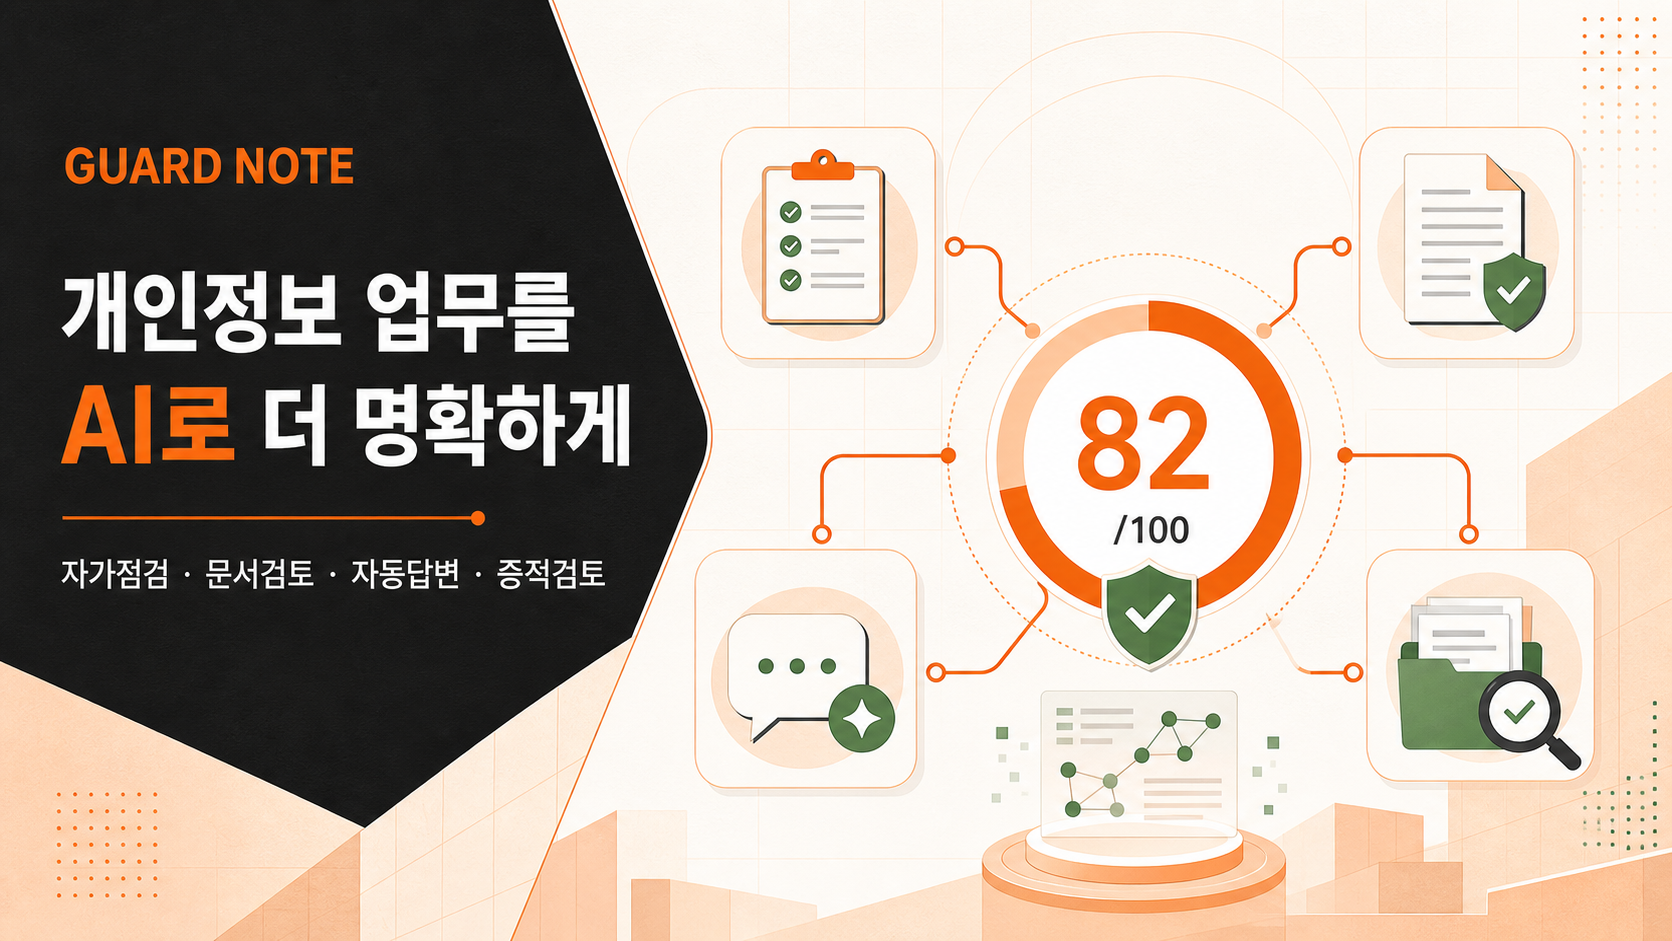
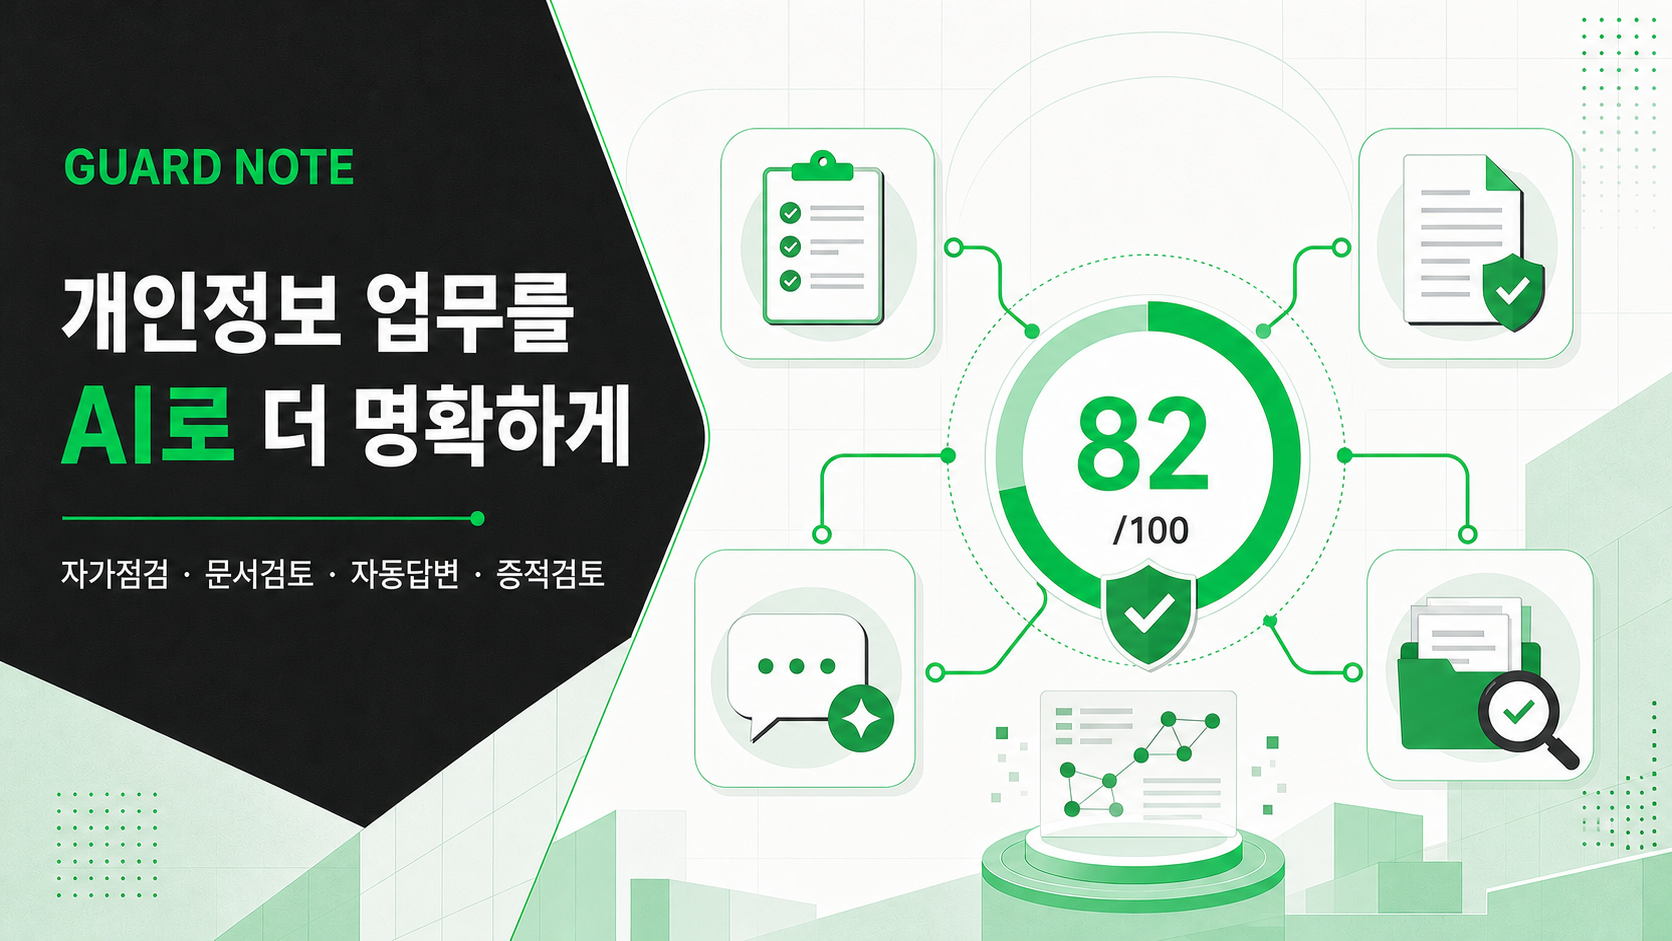
Unify GuardNote with Naver green

diff --git a/src/index.css b/src/index.css
@@ -2,26 +2,26 @@
 
 :root {
   font-family: "Noto Sans KR", sans-serif;
-  color: #1c1b1a;
-  background: #f7f5f1;
+  color: #191919;
+  background: #f7f8f7;
   font-synthesis: none;
-  --ink: #1c1b1a;
-  --muted: #76736d;
-  --line: #e7e3dc;
+  --ink: #191919;
+  --muted: #707572;
+  --line: #e2e7e4;
   --paper: #fff;
-  --cream: #f7f5f1;
-  --peach: #fff1e7;
-  --orange: #eb6917;
-  --orange-dark: #c94f06;
-  --green: #23845a;
-  --green-soft: #e8f5ef;
-  --red: #bc3e3e;
-  --red-soft: #faeaea;
-  --yellow: #a56b0a;
-  --yellow-soft: #fff4d9;
-  --purple: #6654b8;
-  --purple-soft: #eeeafd;
-  --shadow: 0 12px 34px rgba(35, 29, 24, .06);
+  --cream: #f7f8f7;
+  --peach: #e9fbf1;
+  --orange: #03c75a;
+  --orange-dark: #00a64b;
+  --green: #03c75a;
+  --green-soft: #e9fbf1;
+  --red: #00a64b;
+  --red-soft: #edf8f2;
+  --yellow: #03c75a;
+  --yellow-soft: #e9fbf1;
+  --purple: #00a64b;
+  --purple-soft: #edf8f2;
+  --shadow: 0 12px 34px rgba(0, 0, 0, .06);
 }
 
 * { box-sizing: border-box; }
@@ -30,10 +30,10 @@ body { margin: 0; min-width: 320px; min-height: 100vh; background: var(--cream);
 button, input, textarea, select { font: inherit; }
 button { color: inherit; }
 button, a { -webkit-tap-highlight-color: transparent; }
-button:focus-visible, input:focus-visible, textarea:focus-visible, select:focus-visible { outline: 3px solid rgba(235,105,23,.22); outline-offset: 2px; }
+button:focus-visible, input:focus-visible, textarea:focus-visible, select:focus-visible { outline: 3px solid rgba(3,199,90,.24); outline-offset: 2px; }
 
 .app-shell { min-height: 100vh; }
-.sidebar { position: fixed; inset: 0 auto 0 0; width: 264px; display: flex; flex-direction: column; padding: 26px 19px 18px; background: #201f1d; color: #fff; z-index: 40; }
+.sidebar { position: fixed; inset: 0 auto 0 0; width: 264px; display: flex; flex-direction: column; padding: 26px 19px 18px; background: #191919; color: #fff; z-index: 40; }
 .sidebar-head { display: flex; justify-content: space-between; align-items: center; padding: 0 7px 24px; }
 .brand { display: inline-flex; align-items: center; gap: 11px; }
 .brand-mark { position: relative; width: 31px; height: 31px; border: 2px solid currentColor; display: inline-block; transform: rotate(-8deg); overflow: hidden; }
@@ -58,20 +58,20 @@ button:focus-visible, input:focus-visible, textarea:focus-visible, select:focus-
 .main-nav button:hover { color: #fff; background: #2e2c29; }
 .main-nav button.is-active { color: #fff; background: #34312d; box-shadow: inset 3px 0 var(--orange); }
 .main-nav button span { font-size: 13px; font-weight: 600; }
-.main-nav button em { min-width: 24px; padding: 3px 6px; color: #f9b58a; border: 1px solid #61402c; border-radius: 999px; font: 700 9px "DM Sans"; text-align: center; font-style: normal; }
+.main-nav button em { min-width: 24px; padding: 3px 6px; color: #6ee7a5; border: 1px solid #14663a; border-radius: 999px; font: 700 9px "DM Sans"; text-align: center; font-style: normal; }
 .reference-card { margin-top: auto; display: grid; grid-template-columns: 24px 1fr 17px; gap: 8px; align-items: start; padding: 13px; border: 1px solid #3b3935; border-radius: 9px; background: #292825; color: #e7e3dd; }
 .reference-card > svg:first-child { color: var(--orange); }
-.reference-card > svg:last-child { color: #64b38e; }
+.reference-card > svg:last-child { color: var(--orange); }
 .reference-card b { display: block; font-size: 11px; }
 .reference-card p { margin: 3px 0 0; color: #918e87; font-size: 9px; line-height: 1.5; }
 .sidebar-foot { display: grid; grid-template-columns: 34px 1fr auto; gap: 10px; align-items: center; padding: 17px 8px 0; margin-top: 13px; border-top: 1px solid #363430; }
-.avatar { display: grid; place-items: center; width: 34px; height: 34px; border-radius: 50%; color: #31231b; background: #f4c6a9; font-weight: 800; }
+.avatar { display: grid; place-items: center; width: 34px; height: 34px; border-radius: 50%; color: #07572d; background: #c9f5dc; font-weight: 800; }
 .sidebar-foot div { display: grid; gap: 1px; }
 .sidebar-foot b { font-size: 12px; }
 .sidebar-foot small { color: #85817b; font-size: 9px; }
 
 .main-shell { min-height: 100vh; margin-left: 264px; }
-.topbar { position: sticky; top: 0; z-index: 30; height: 78px; display: flex; align-items: center; gap: 16px; padding: 0 32px; border-bottom: 1px solid rgba(220,215,207,.8); background: rgba(247,245,241,.9); backdrop-filter: blur(16px); }
+.topbar { position: sticky; top: 0; z-index: 30; height: 78px; display: flex; align-items: center; gap: 16px; padding: 0 32px; border-bottom: 1px solid rgba(226,231,228,.9); background: rgba(247,248,247,.92); backdrop-filter: blur(16px); }
 .topbar-title { min-width: 280px; }
 .topbar h1 { margin: 0; font-size: 18px; letter-spacing: -.04em; }
 .topbar-title p { margin: 3px 0 0; color: var(--muted); font-size: 10px; }
@@ -104,8 +104,8 @@ button:focus-visible, input:focus-visible, textarea:focus-visible, select:focus-
 .section-head h3 { margin: 4px 0 0; font-size: 17px; letter-spacing: -.04em; }
 .section-head > button { display: flex; align-items: center; gap: 5px; padding: 5px; border: 0; background: transparent; color: var(--muted); font-size: 10px; cursor: pointer; }
 
-.hero-panel { position: relative; overflow: hidden; display: grid; grid-template-columns: 1.25fr .75fr; min-height: 315px; padding: 42px 46px; border-radius: 17px; background: linear-gradient(125deg, #ead4c2 0%, #f8e9dd 46%, #fff7f1 100%); }
-.hero-panel::before { content: ""; position: absolute; width: 360px; height: 360px; border: 1px solid rgba(235,105,23,.18); border-radius: 50%; right: -85px; top: -190px; box-shadow: 0 0 0 60px rgba(255,255,255,.18), 0 0 0 120px rgba(255,255,255,.15); }
+.hero-panel { position: relative; overflow: hidden; display: grid; grid-template-columns: 1.25fr .75fr; min-height: 315px; padding: 42px 46px; border-radius: 17px; background: linear-gradient(125deg, #dff8e9 0%, #effcf4 48%, #f9fffb 100%); }
+.hero-panel::before { content: ""; position: absolute; width: 360px; height: 360px; border: 1px solid rgba(3,199,90,.2); border-radius: 50%; right: -85px; top: -190px; box-shadow: 0 0 0 60px rgba(255,255,255,.22), 0 0 0 120px rgba(255,255,255,.18); }
 .hero-panel > div { position: relative; z-index: 1; }
 .hero-panel h2, .audit-overview h2, .vendor-summary h2, .pbd-hero h2, .smart-hero h2, .history-intro h2 { margin: 17px 0 14px; font-size: clamp(28px, 3.3vw, 47px); line-height: 1.24; letter-spacing: -.065em; }
 .hero-panel h2 em, .smart-hero h2 em { color: var(--orange); font-style: normal; }
@@ -113,7 +113,7 @@ button:focus-visible, input:focus-visible, textarea:focus-visible, select:focus-
 .hero-actions { display: flex; gap: 8px; margin-top: 24px; }
 .hero-score { display: flex; align-items: center; justify-content: center; gap: 26px; }
 .score-orbit { position: relative; display: grid; place-items: center; width: 170px; height: 170px; border-radius: 50%; background: conic-gradient(var(--orange) 0 82%, rgba(255,255,255,.65) 82%); }
-.score-orbit::after { content: ""; position: absolute; inset: 10px; border-radius: 50%; background: #f8eee7; }
+.score-orbit::after { content: ""; position: absolute; inset: 10px; border-radius: 50%; background: #effcf4; }
 .score-orbit strong { position: relative; z-index: 1; font: 700 52px "DM Sans"; letter-spacing: -.06em; }
 .score-orbit small { font-size: 15px; color: #83766e; }
 .score-orbit i { position: absolute; z-index: 2; width: 8px; height: 8px; border-radius: 50%; background: #fff; }
@@ -144,7 +144,7 @@ button:focus-visible, input:focus-visible, textarea:focus-visible, select:focus-
 .action-row p { margin: 0; color: var(--muted); font-size: 9px; }
 .launcher-grid { display: grid; grid-template-columns: 1fr 1fr; gap: 8px; margin-top: 17px; }
 .launcher-grid button { min-height: 112px; display: flex; flex-direction: column; align-items: flex-start; gap: 7px; padding: 14px; border: 1px solid var(--line); border-radius: 9px; background: #faf9f7; cursor: pointer; text-align: left; }
-.launcher-grid button:hover { border-color: #efab80; background: var(--peach); }
+.launcher-grid button:hover { border-color: #67dfa0; background: var(--peach); }
 .launcher-grid svg { color: var(--orange); }
 .launcher-grid b { font-size: 11px; }
 .launcher-grid small { color: var(--muted); font-size: 8px; line-height: 1.5; }
@@ -154,12 +154,12 @@ button:focus-visible, input:focus-visible, textarea:focus-visible, select:focus-
 .table-header, .history-table .table-row { min-width: 850px; display: grid; grid-template-columns: .75fr 1.65fr 1.15fr .9fr .8fr .9fr 24px; gap: 14px; align-items: center; padding: 12px 14px; }
 .table-header { border-radius: 7px; background: #f3f1ed; color: #858079; font-size: 8px; font-weight: 700; }
 .history-table .table-row { width: 100%; border: 0; border-bottom: 1px solid #efede8; background: #fff; text-align: left; cursor: pointer; font-size: 10px; }
-.history-table .table-row:hover { background: #fffaf6; }
+.history-table .table-row:hover { background: #f3fcf7; }
 .history-table .table-row b { font-size: 10px; }
 .history-table .table-row > span:nth-child(4) { display: grid; grid-template-columns: 1fr 30px; gap: 7px; align-items: center; }
 .history-table.compact .table-header, .history-table.compact .table-row { grid-template-columns: .8fr 1.6fr 1.2fr .8fr .8fr; min-width: 700px; }
 
-.audit-overview { display: grid; grid-template-columns: 1.2fr .65fr .55fr; align-items: center; gap: 30px; padding: 34px 38px; background: linear-gradient(110deg,#fff 55%,#fff7f1); }
+.audit-overview { display: grid; grid-template-columns: 1.2fr .65fr .55fr; align-items: center; gap: 30px; padding: 34px 38px; background: linear-gradient(110deg,#fff 55%,#effcf4); }
 .audit-overview h2 { margin: 13px 0 9px; font-size: 29px; }
 .audit-progress { display: grid; gap: 9px; padding: 0 28px; border-left: 1px solid var(--line); border-right: 1px solid var(--line); }
 .audit-progress strong { font: 700 35px "DM Sans"; letter-spacing: -.05em; }
@@ -176,10 +176,10 @@ button:focus-visible, input:focus-visible, textarea:focus-visible, select:focus-
 .question-toolbar input { width: 100%; border: 0; outline: 0; font-size: 9px; }
 .question-toolbar > div { display: flex; gap: 4px; overflow: auto; }
 .question-toolbar > div button, .history-toolbar > div button { padding: 7px 10px; border: 1px solid transparent; border-radius: 7px; background: transparent; color: var(--muted); font-size: 9px; cursor: pointer; white-space: nowrap; }
-.question-toolbar > div button.is-active, .history-toolbar > div button.is-active { color: var(--orange-dark); border-color: #ffd8bf; background: var(--peach); font-weight: 700; }
+.question-toolbar > div button.is-active, .history-toolbar > div button.is-active { color: var(--orange-dark); border-color: #8ae8b4; background: var(--peach); font-weight: 700; }
 .question-list { padding: 0 18px 18px; }
 .question-card { position: relative; display: grid; grid-template-columns: 36px 1fr; gap: 13px; padding: 19px 14px; border-bottom: 1px solid var(--line); cursor: pointer; }
-.question-card.is-active { margin: 0 -18px; padding-left: 32px; padding-right: 32px; background: #fffaf6; box-shadow: inset 3px 0 var(--orange); }
+.question-card.is-active { margin: 0 -18px; padding-left: 32px; padding-right: 32px; background: #f3fcf7; box-shadow: inset 3px 0 var(--orange); }
 .question-index { display: grid; place-items: center; width: 33px; height: 33px; border-radius: 8px; background: #f4f2ee; color: #aaa49c; font: 700 9px "DM Sans"; }
 .question-card.is-active .question-index { color: var(--orange-dark); background: var(--peach); }
 .question-card small { color: var(--orange); font-size: 8px; font-weight: 700; }
@@ -187,7 +187,7 @@ button:focus-visible, input:focus-visible, textarea:focus-visible, select:focus-
 .question-card p { margin: 0; color: #9a958e; font-size: 8px; }
 .answer-buttons { display: flex; flex-wrap: wrap; gap: 5px; margin-top: 12px; }
 .answer-buttons button { display: inline-flex; align-items: center; gap: 4px; min-width: 60px; padding: 6px 10px; border: 1px solid var(--line); border-radius: 6px; background: #fff; color: #77726b; font-size: 9px; cursor: pointer; }
-.answer-buttons button.is-selected { color: var(--orange-dark); border-color: #ef9a64; background: var(--peach); font-weight: 700; }
+.answer-buttons button.is-selected { color: var(--orange-dark); border-color: #57d993; background: var(--peach); font-weight: 700; }
 .answer-state { position: absolute; top: 18px; right: 10px; display: grid; place-items: center; width: 27px; height: 27px; border-radius: 50%; color: var(--green); background: var(--green-soft); }
 .answer-state.is-bad { color: var(--red); background: var(--red-soft); }
 .guidance-panel { position: sticky; top: 94px; padding: 23px; }
@@ -195,7 +195,7 @@ button:focus-visible, input:focus-visible, textarea:focus-visible, select:focus-
 .guidance-law { display: flex; gap: 10px; margin-top: 20px; padding: 13px; border-radius: 8px; background: var(--peach); color: var(--orange-dark); }
 .guidance-law div { display: grid; gap: 2px; }
 .guidance-law b { font-size: 9px; }
-.guidance-law p { margin: 0; color: #8e5b3d; font-size: 9px; }
+.guidance-law p { margin: 0; color: #246b46; font-size: 9px; }
 .guidance-copy { margin-top: 17px; }
 .guidance-copy b { font-size: 10px; }
 .guidance-copy p { margin: 6px 0 0; color: var(--muted); font-size: 9px; line-height: 1.7; }
@@ -223,10 +223,10 @@ button:focus-visible, input:focus-visible, textarea:focus-visible, select:focus-
 .scope-box span { display: flex; align-items: center; gap: 5px; color: #66615b; font-size: 9px; }
 .scope-box svg { color: var(--green); }
 .modal-actions { display: flex; justify-content: flex-end; gap: 7px; margin-top: 22px; }
-.ai-progress, .inline-processing { display: flex; align-items: center; gap: 13px; margin-top: 19px; padding: 17px; border: 1px solid #f6d4bd; border-radius: 9px; background: #fff8f3; }
+.ai-progress, .inline-processing { display: flex; align-items: center; gap: 13px; margin-top: 19px; padding: 17px; border: 1px solid #bcefd2; border-radius: 9px; background: #f3fcf7; }
 .ai-progress.compact { padding: 12px; }
 .ai-spinner { display: grid; place-items: center; flex: 0 0 auto; width: 43px; height: 43px; border-radius: 50%; color: var(--orange); background: #fff; animation: pulse 1.4s ease-in-out infinite; }
-@keyframes pulse { 50% { transform: scale(1.06); box-shadow: 0 0 0 8px rgba(235,105,23,.08); } }
+@keyframes pulse { 50% { transform: scale(1.06); box-shadow: 0 0 0 8px rgba(3,199,90,.1); } }
 .ai-progress > div, .inline-processing > div { flex: 1; display: grid; gap: 7px; }
 .ai-progress b, .inline-processing b { font-size: 10px; }
 .ai-progress p { margin: 0; color: var(--muted); font-size: 8px; }
@@ -256,7 +256,7 @@ button:focus-visible, input:focus-visible, textarea:focus-visible, select:focus-
 .vendor-table-head, .vendor-row { display: grid; grid-template-columns: 1.6fr 1fr .55fr .55fr .75fr; align-items: center; gap: 10px; padding: 11px 17px; }
 .vendor-table-head { color: #928d86; background: #f3f1ed; font-size: 8px; font-weight: 700; }
 .vendor-row { width: 100%; border: 0; border-bottom: 1px solid #efede8; background: #fff; text-align: left; cursor: pointer; }
-.vendor-row:hover, .vendor-row.is-active { background: #fff9f4; }
+.vendor-row:hover, .vendor-row.is-active { background: #f3fcf7; }
 .vendor-row.is-active { box-shadow: inset 3px 0 var(--orange); }
 .vendor-row > span:first-child { display: flex; align-items: center; gap: 9px; }
 .vendor-row > span:first-child i { display: grid; place-items: center; width: 30px; height: 30px; border-radius: 7px; color: var(--orange-dark); background: var(--peach); font-style: normal; font-weight: 800; }
@@ -288,7 +288,7 @@ button:focus-visible, input:focus-visible, textarea:focus-visible, select:focus-
 .training-box button { min-height: 29px; padding: 5px 8px; font-size: 8px; }
 .evidence-work { margin-top: 16px; padding-top: 16px; border-top: 1px solid var(--line); }
 .evidence-work .section-head h3 { font-size: 14px; }
-.evidence-question { margin: 14px 0 0; padding: 11px; border-left: 3px solid var(--orange); background: #fff8f3; font-size: 9px; line-height: 1.6; }
+.evidence-question { margin: 14px 0 0; padding: 11px; border-left: 3px solid var(--orange); background: #f3fcf7; font-size: 9px; line-height: 1.6; }
 .evidence-upload { display: flex; align-items: center; gap: 9px; margin-top: 12px; padding: 11px; border: 1px dashed #d6d0c7; border-radius: 8px; cursor: pointer; color: var(--orange); }
 .evidence-upload > div { display: grid; gap: 2px; color: var(--ink); }
 .evidence-upload b { font-size: 9px; }
@@ -303,7 +303,7 @@ button:focus-visible, input:focus-visible, textarea:focus-visible, select:focus-
 .result-block b { font-size: 9px; }
 .result-block p { margin: 5px 0 0; color: #5e5a54; font-size: 9px; line-height: 1.75; }
 .result-block p strong { color: var(--red); }
-.result-block.suggestion { border-color: #f4d0b8; background: #fff8f3; }
+.result-block.suggestion { border-color: #bcefd2; background: #f3fcf7; }
 .field { display: grid; gap: 6px; margin-top: 13px; }
 .field span { font-size: 9px; font-weight: 700; }
 .field input, .field select { width: 100%; padding: 10px 11px; border: 1px solid var(--line); border-radius: 7px; background: #fff; font-size: 10px; outline: 0; }
@@ -317,7 +317,7 @@ button:focus-visible, input:focus-visible, textarea:focus-visible, select:focus-
 .stage-line i { width: 23px; height: 1px; background: #d9d5ce; }
 .project-cards { display: grid; grid-template-columns: repeat(3,1fr); gap: 12px; }
 .project-card { padding: 18px; border: 1px solid var(--line); border-radius: 11px; background: #fff; box-shadow: var(--shadow); text-align: left; cursor: pointer; }
-.project-card.is-active { border-color: #efa170; box-shadow: inset 0 0 0 1px #efa170, var(--shadow); }
+.project-card.is-active { border-color: #4bd68b; box-shadow: inset 0 0 0 1px #4bd68b, var(--shadow); }
 .project-card > span { display: flex; justify-content: space-between; align-items: center; }
 .project-card > span small { color: var(--muted); font-size: 8px; }
 .project-card h3 { margin: 16px 0 4px; font-size: 16px; }
@@ -336,13 +336,13 @@ button:focus-visible, input:focus-visible, textarea:focus-visible, select:focus-
 .pbd-checks small { color: var(--muted); font-size: 8px; }
 
 .smart-hero { padding-top: 8px; }
-.smart-trust { display: grid; grid-template-columns: 32px 1fr; gap: 3px 9px; padding: 15px 17px; border: 1px solid #efd6c5; border-radius: 10px; background: #fff8f3; color: var(--orange-dark); }
+.smart-trust { display: grid; grid-template-columns: 32px 1fr; gap: 3px 9px; padding: 15px 17px; border: 1px solid #bcefd2; border-radius: 10px; background: #f3fcf7; color: var(--orange-dark); }
 .smart-trust svg { grid-row: 1/5; align-self: center; }
 .smart-trust b { font-size: 10px; }
-.smart-trust span { color: #80685a; font-size: 8px; }
+.smart-trust span { color: #4e6f5d; font-size: 8px; }
 .tool-grid { display: grid; grid-template-columns: repeat(4,1fr); gap: 9px; margin-bottom: 14px; }
 .tool-grid > button { min-height: 100px; display: grid; grid-template-columns: 38px 1fr 18px; gap: 10px; align-items: center; padding: 14px; border: 1px solid var(--line); border-radius: 10px; background: #fff; text-align: left; cursor: pointer; box-shadow: var(--shadow); }
-.tool-grid > button:hover, .tool-grid > button.is-active { border-color: #eda575; background: #fffaf6; }
+.tool-grid > button:hover, .tool-grid > button.is-active { border-color: #55d891; background: #f3fcf7; }
 .tool-grid > button > span { display: grid; place-items: center; width: 37px; height: 37px; border-radius: 9px; color: var(--orange); background: var(--peach); }
 .tool-grid > button > div { display: grid; gap: 4px; }
 .tool-grid h3 { display: flex; align-items: center; gap: 5px; margin: 0; font-size: 11px; }
@@ -360,7 +360,7 @@ button:focus-visible, input:focus-visible, textarea:focus-visible, select:focus-
 .context-grid { display: grid; grid-template-columns: 1fr 1fr; gap: 6px; }
 .context-grid button { display: flex; align-items: center; gap: 8px; padding: 10px; border: 1px solid var(--line); border-radius: 7px; background: #fff; text-align: left; font-size: 9px; cursor: pointer; }
 .context-grid button > span { display: grid; place-items: center; width: 19px; height: 19px; border: 1px solid #d8d3cc; border-radius: 4px; }
-.context-grid button.is-active { border-color: #efad82; background: #fffaf6; }
+.context-grid button.is-active { border-color: #63dfa0; background: #f3fcf7; }
 .context-grid button.is-active > span { color: #fff; border-color: var(--orange); background: var(--orange); }
 .review-run { margin-top: 18px; min-height: 44px; }
 .doc-result { padding: 26px; }
@@ -426,12 +426,12 @@ button:focus-visible, input:focus-visible, textarea:focus-visible, select:focus-
 .notice-icon.bad { color: var(--red); background: var(--red-soft); }
 .notice-icon.ai { color: var(--orange); background: var(--peach); }
 .notice-icon.good { color: var(--green); background: var(--green-soft); }
-.search-banner { display: flex; align-items: center; gap: 9px; padding: 10px 32px; border-bottom: 1px solid #f1d0ba; background: var(--peach); color: #78523a; font-size: 10px; }
+.search-banner { display: flex; align-items: center; gap: 9px; padding: 10px 32px; border-bottom: 1px solid #bcefd2; background: var(--peach); color: #246b46; font-size: 10px; }
 .search-banner span { flex: 1; }
 .search-banner button { display: grid; place-items: center; width: 25px; height: 25px; border: 0; border-radius: 6px; background: transparent; cursor: pointer; }
 .toast { position: fixed; left: 50%; bottom: 24px; z-index: 150; display: flex; align-items: center; gap: 7px; max-width: min(420px,90vw); padding: 11px 16px; border-radius: 9px; color: #fff; background: #22211f; box-shadow: 0 12px 35px rgba(0,0,0,.25); font-size: 10px; opacity: 0; transform: translate(-50%,20px); pointer-events: none; transition: .2s ease; }
 .toast.is-visible { opacity: 1; transform: translate(-50%,0); }
-.toast svg { color: #65c293; }
+.toast svg { color: var(--orange); }
 footer { display: grid; grid-template-columns: 25px auto 1fr auto; align-items: center; gap: 8px; margin-top: 30px; padding: 20px 4px; border-top: 1px solid var(--line); color: #9a958d; font-size: 8px; }
 footer p { margin: 0; text-align: center; }
 footer em { font-style: normal; }

diff --git a/index.html b/index.html
@@ -3,7 +3,7 @@
   <head>
     <meta charset="UTF-8" />
     <meta name="viewport" content="width=device-width, initial-scale=1.0" />
-    <meta name="theme-color" content="#201f1d" />
+    <meta name="theme-color" content="#03c75a" />
     <meta name="description" content="자가점검, 수탁자 관리, PbD 프로젝트와 AI 문서 자동화를 연결하는 GuardNote 개인정보 준수 워크스페이스" />
     <meta property="og:title" content="GuardNote · Privacy Intelligence" />
     <meta property="og:description" content="개인정보 점검부터 AI 문서 검토·자동답변·생성·증적검토까지 하나의 업무 흐름으로." />

diff --git a/scripts/build-user-guide.py b/scripts/build-user-guide.py
@@ -17,15 +17,15 @@ OG_IMAGE = ROOT / "public" / "og.png"
 FONT = "Arial Unicode MS"
 INK = RGBColor(0x20, 0x1F, 0x1D)
 MUTED = RGBColor(0x72, 0x6D, 0x66)
-ORANGE = RGBColor(0xEB, 0x69, 0x17)
-ORANGE_DARK = RGBColor(0xC9, 0x4F, 0x06)
-PEACH = "FFF1E7"
-CREAM = "F7F5F1"
-GREEN = RGBColor(0x23, 0x84, 0x5A)
-GREEN_FILL = "E8F5EF"
-RED = RGBColor(0xBC, 0x3E, 0x3E)
-RED_FILL = "FAEAEA"
-LINE = "E7E3DC"
+ORANGE = RGBColor(0x03, 0xC7, 0x5A)
+ORANGE_DARK = RGBColor(0x00, 0xA6, 0x4B)
+PEACH = "E9FBF1"
+CREAM = "F7F8F7"
+GREEN = RGBColor(0x03, 0xC7, 0x5A)
+GREEN_FILL = "E9FBF1"
+RED = RGBColor(0x00, 0xA6, 0x4B)
+RED_FILL = "EDF8F2"
+LINE = "E2E7E4"
 TABLE_WIDTH_DXA = 9360
 TABLE_INDENT_DXA = 120
 CELL_TOP_BOTTOM = 55